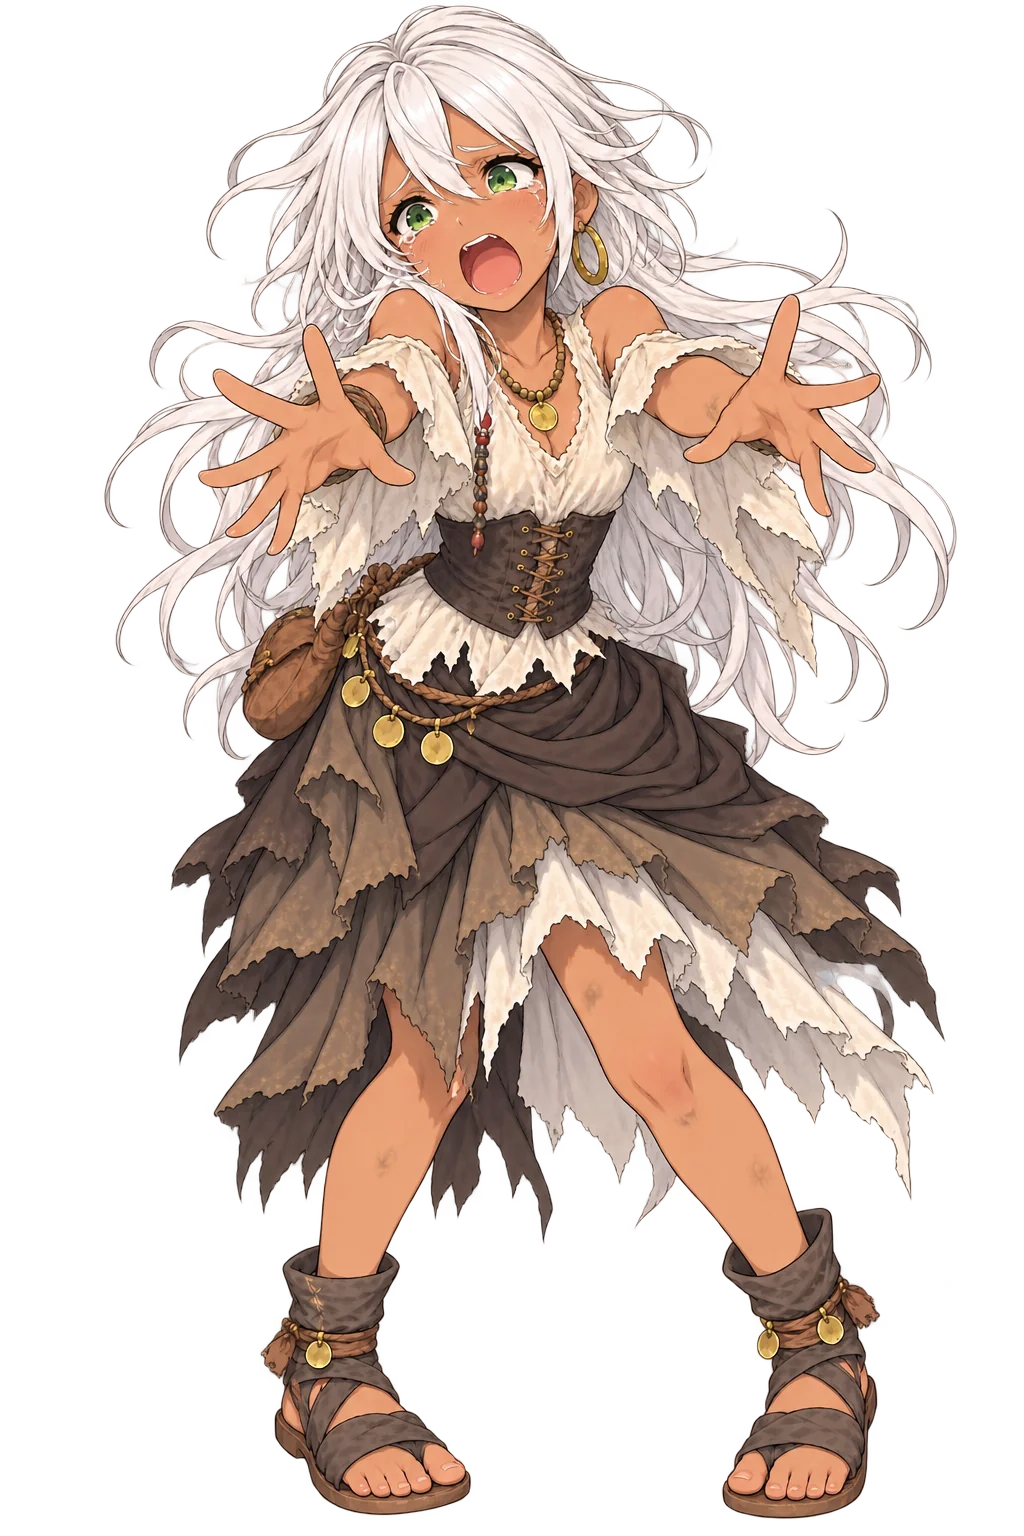
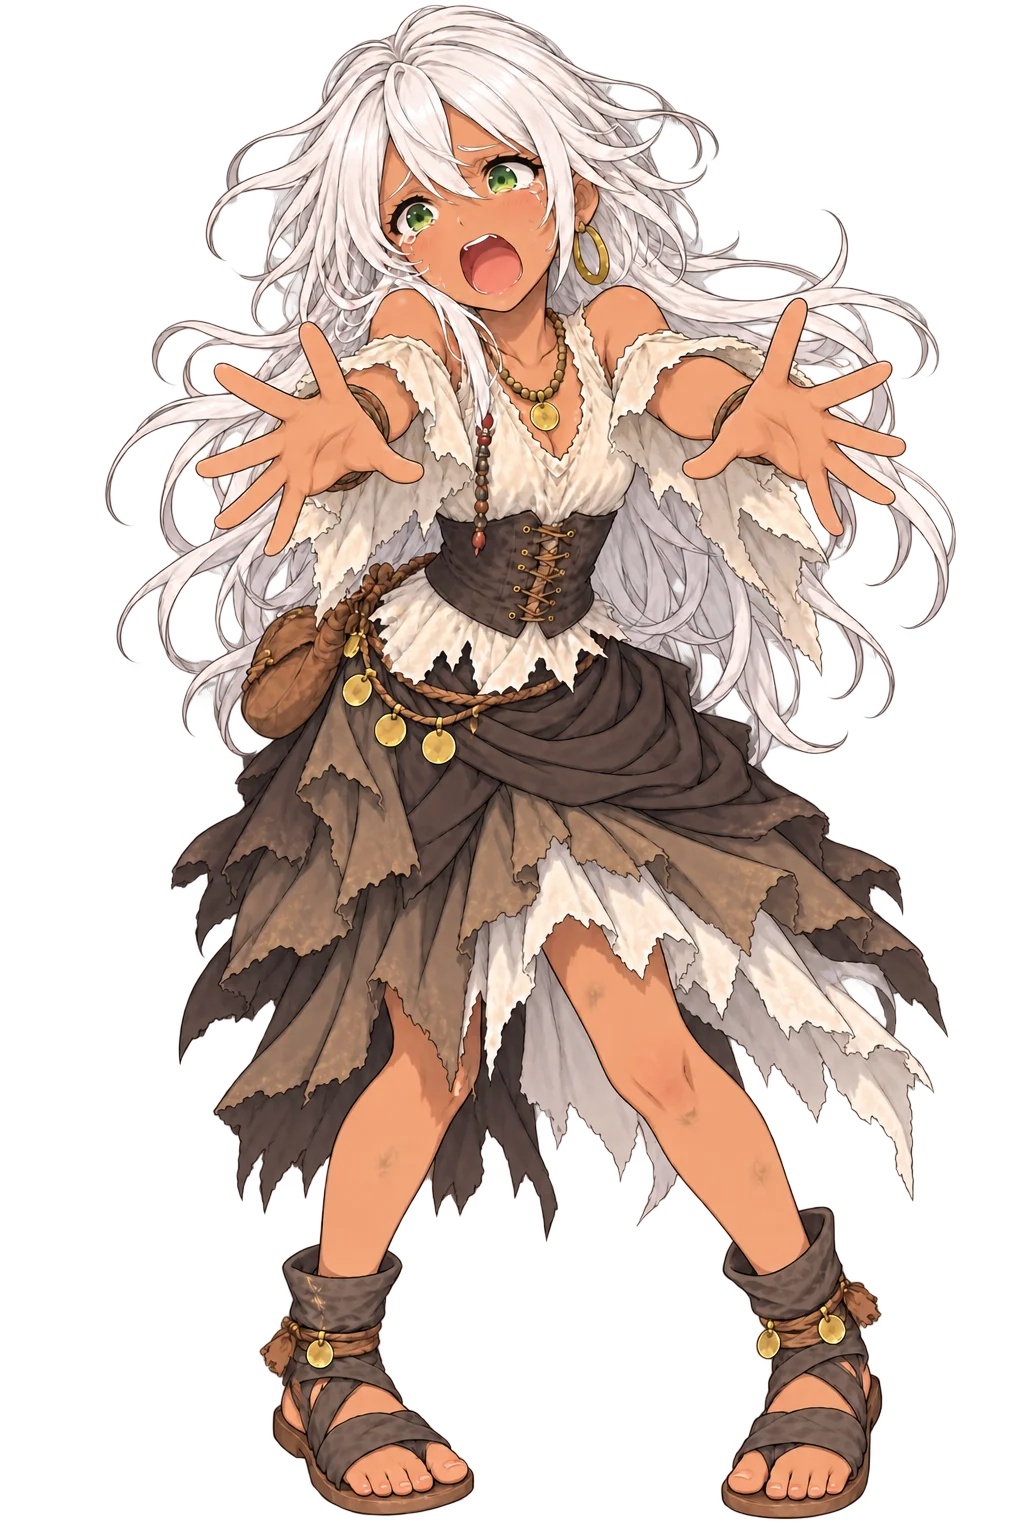
art(蘿媞): cry 手指修正（GPT 重出，兩手各 5 指；同名覆蓋），HANDOFF 請程式端加 ?v=2

diff --git a/HANDOFF.md b/HANDOFF.md
@@ -91,6 +91,8 @@
 > 23. ✅ **-1795 已接**（六條 `?v=2`＋取景重量、角色層 base 跟著 ask） **（09-27，Mac）聖索菲亞 NPC `npc_ss_loki` 六張重畫：拿掉頭巾與腰巾**（Ray：「npc_ss_loki 系列保留原風格重畫，不要有頭巾跟腰巾」）—— `resources/si/npc/npc_ss_loki_{ask,give,guard,happy,sad,shock}.webp` 同名覆蓋（9850ff0；先畫 `ask` 當新基底，其餘五張照原圖姿勢表情＋新基底的髮型服裝），舊版進 `_recycle/`，舊原稿改名 `_originals/SI/NPC/_npc_ss_loki_*_v1_headscarf.png`。
 >    程式端：`script/speakers.js` 那六條 src **加 `?v=2`**（同名覆蓋），**取景要換**（頭巾拿掉頭頂變低；`base` 是 ask，縮放跟著它）——`measure_si.py` 重量：
 >    `ask top:19 bot:1527 fx:0.477`／`give top:7 bot:1529 fx:0.463`／`guard top:15 bot:1529 fx:0.510`／`happy top:29 bot:1523 fx:0.559`／`sad top:11 bot:1523 fx:0.475`／`shock top:11 bot:1530 fx:0.461`。
+> 24. **（09-28，Mac）蘿媞 `cry` 手指修正**（Ray：「loti cry 那張手指數量不對，讓 gpt 重出」）—— `resources/si/npc/npc_ss_loti_cry.webp` 同名覆蓋（GPT 一次就修好，兩手各 5 指；其餘與原圖一致），舊版進 `_recycle/`，舊原稿改名 `_originals/SI/NPC/_npc_ss_loti_cry_v1_fingers.png`。
+>    程式端：`script/speakers.js` 的 `cry` src **加 `?v=2`**；取景 `measure_si.py` 重量＝`top:4 bot:1518 fx:0.460`（現行 `top:5 bot:1518 fx:0.457`，差 1px，可改可不改）。
 > 美術現況與換機器交接：**`resources/_HANDOFF_ART_20260925.md`**（§七＝米夏九張；§八＝廢城兩次退稿到定風格；§九＝聖索菲亞 9 張＋廢城 55 張全交、產線的坑；**§十三＝09-27 收工換機器：薇拉馮德 73 張、惡棍 6 張、索拉娜三張回版、還開著的事、三個不明刪除**）（Windows 那台收工版；09-24 那份 §六～§八是細節）。做完把這一塊刪掉或標成已接。
 
 > ✅ **`tomb_misha_met` 東泊那一邊 -1717 接上了**（Ray 定案：AB 順序長談在「滿足滿足！」收場、
